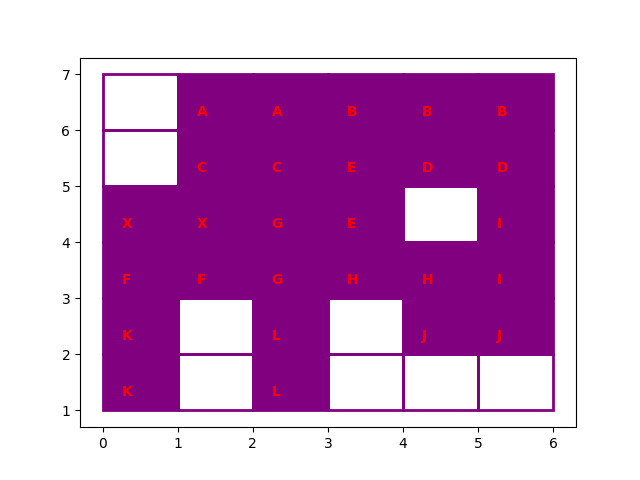
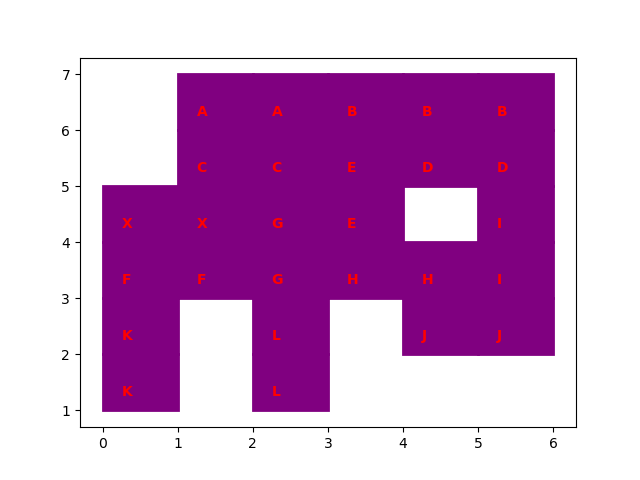
worked on readability of code

diff --git a/code/classes/grid.py b/code/classes/grid.py
@@ -13,7 +13,7 @@ class Grid():
 
     def load_grid(self, source_file):
         """
-        Checks title of csv file to see how big the grid is and loads the grid.
+        Plots the gameboard as a grid based on the dimensions in name of input file and fills the grid with beginning positions.
         Requires source_file. 
         """
         if "6" in source_file:
@@ -22,29 +22,30 @@ class Grid():
             size = 9   
         elif "12" in source_file:
             size = 12
+        
+        # An empty plot, to fill 
         plt.plot()
-        # loops over the 2D array and checks the value at each place
+
+        # Loops over the 2D array and checks the value at each place
         for x in range(len(self.coordinates)):
             for y in range(len(self.coordinates[x])):
-                # If the value is 0, there is no car, the square is not filled
-                if self.coordinates[y][x]=="0":
-                    rect=mpatches.Rectangle((x,size-y),1,1, 
-                                        fill = False,
-                                        color = "purple",
-                                        linewidth = 2)
-                    plt.gca().add_patch(rect)
-                    
-                # If the value is not 0, there is a car, the square is filled
-                else:
+
+                # Only fill squares if the coordinates aren't null, source https://datavizpyr.com/how-to-draw-a-rectangle-on-a-plot-in-matplotlib/
+                if self.coordinates[y][x] != "0":
                     rect=mpatches.Rectangle((x,size-y),1,1, 
                                             fill = True,
                                             color = "purple",
                                             linewidth = 2)
                     plt.gca().add_patch(rect)
+
                     # Add the name of the car on the square where it's found
                     plt.text(x + 0.25, size+0.25-y,self.coordinates[y][x],fontsize=10, color="red", weight="bold")
 
-        plt.savefig('name.png') 
+        # Save the plot as a file
+        plt.savefig('name.png')
+
+        # Pop up
+        plt.show()
      
     def load_coordinates(self, source_file):
         if "6" in source_file:
@@ -52,25 +53,31 @@ class Grid():
         elif "9" in source_file:
             size = 9   
         elif "12" in source_file:
-            size = 12   
+            size = 12
+    
         # Make a 2D array filled with 0's 
         a = [["0" for x in range(size)] for y in range(size)] 
         for car in self.cars.values():
             a[car.y-1][car.x-1]=car.name
             if car.orientation=="H":
+                
+                # If a horizontal car has length 2, draw the carname at x+1 as well
                 if car.length==2:
-                    # If a horizontal car has length 2, draw the carname at x+1 as well
                     a[car.y-1][car.x]=car.name
+                
+                # If a horizontal car has length 3, draw the carname at x+1 and x+2 as well
                 elif car.length==3:
-                    # If a horizontal car has length 3, draw the carname at x+1 and x+2 as well
                     a[car.y-1][car.x]=car.name
                     a[car.y-1][car.x+1]=car.name
+
             elif car.orientation=="V":
+
+                # If a vertical car has length 2, draw the carname at y+1 as well
                 if car.length==2:
-                    # If a vertical car has length 2, draw the carname at y+1 as well
                     a[car.y][car.x-1]=car.name
+
+                # If a vertical car has length 3, draw the carname at y+1 and y+2 as well
                 elif car.length==3:
-                    # If a vertical car has length 3, draw the carname at y+1 and y+2 as well
                     a[car.y][car.x-1]=car.name
                     a[car.y+1][car.x-1]=car.name
         return a
